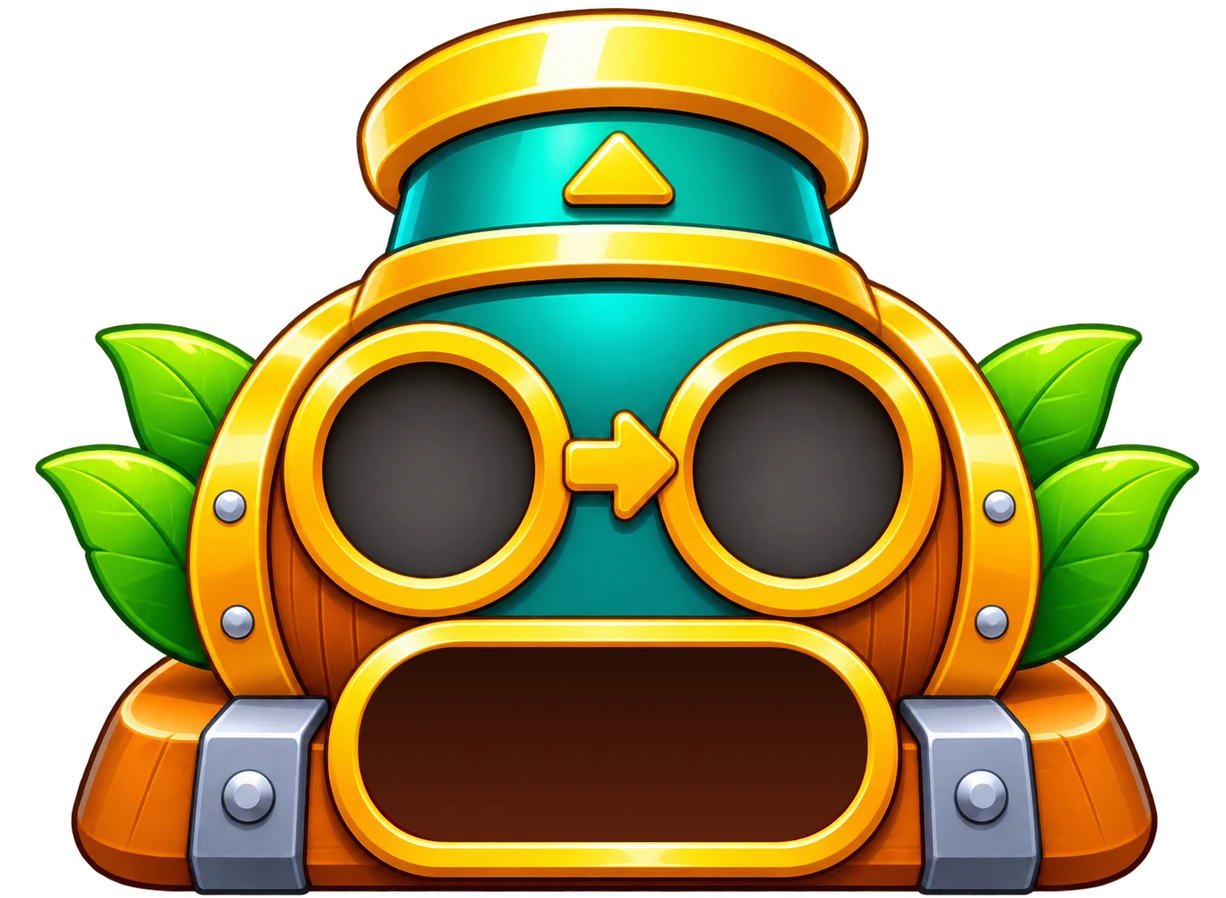
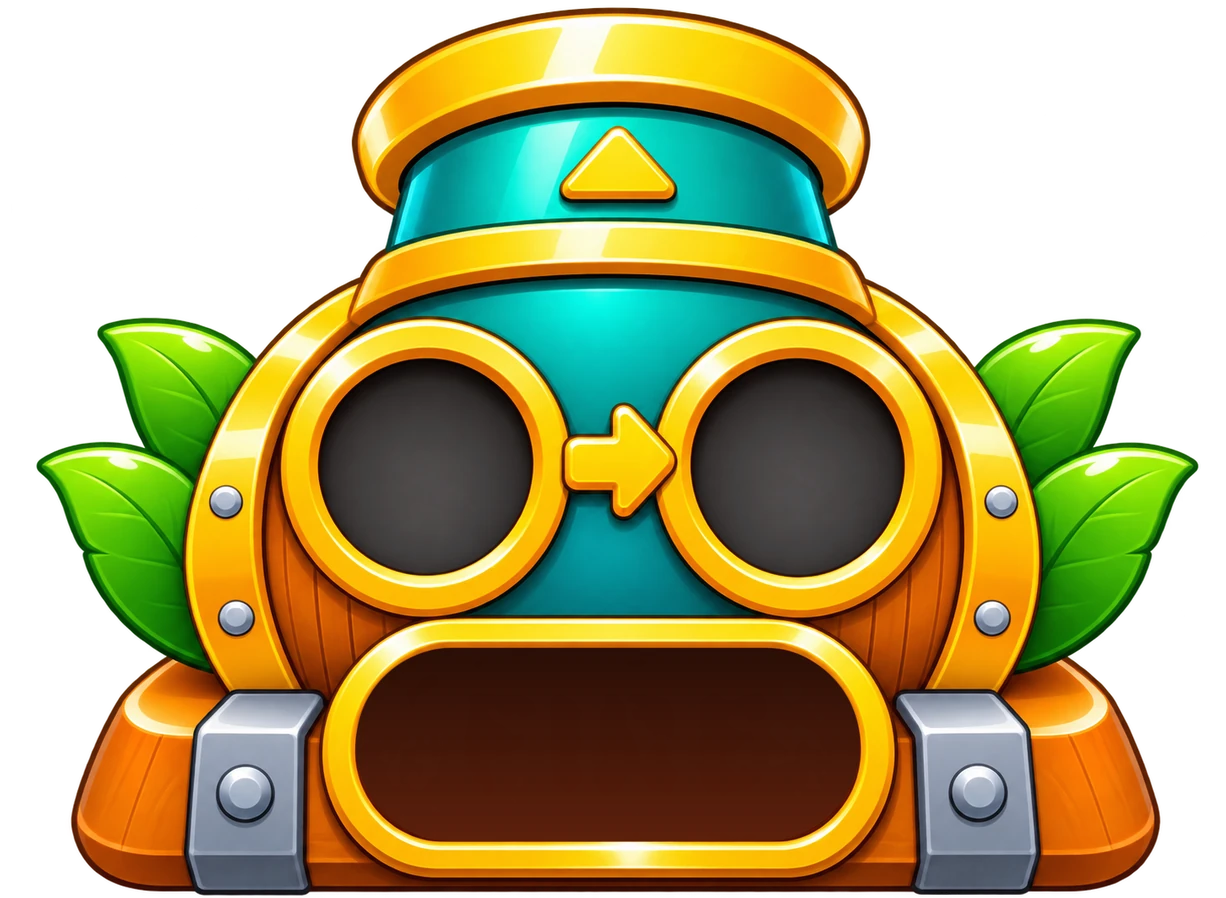
Replace the double cannon art with a yellow FIRE pill version
- Recut with tools/cut_double_cannon.py, keeping the pill's shine
- Re-measure socket positions; add a brown edge to the FIRE word

Changed region(s): [[0.031, 0.0, 0.9918, 0.9978], [0.6509, 0.0624, 0.6819, 0.0935]]

diff --git a/js/script.js b/js/script.js
@@ -816,14 +816,14 @@ const DW = 1672, DH = 941, CX = DW / 2, CY = DH / 2;
 const CANNON = { x: 836, bottom: 762, h: 360, src: { 1: [613, 449], 2: [613, 449] },
   // each socket's centre + radius: x and r as fractions of the sprite width, y of its height. r comes from where the
   // ring's gold starts (found on 240 rays): r × seat = the ring's widest inner edge + 1.8 canvas px (see seat)
-  holes: { 1: [[0.498, 0.5057, 0.1156]], 2: [[0.3497, 0.523, 0.0885], [0.6509, 0.5234, 0.0886]] },
+  holes: { 1: [[0.498, 0.5057, 0.1156]], 2: [[0.3473, 0.5194, 0.0884], [0.6507, 0.5202, 0.0892]] },
   // base footprint width (fraction of the sprite); the wooden base has no light strips
-  foot: { 1: { w: 0.7667, strips: [] }, 2: { w: 0.8059, strips: [] } },
+  foot: { 1: { w: 0.7667, strips: [] }, 2: { w: 0.8148, strips: [] } },
   // the dark recess inside each cannon's gold FIRE bezel, in sprite px: centre + size (Cannon.placeFire). The button
   // is placed by this, never by the sprite's middle. Each cannon has its own pill picture (1: fire.webp, 2: fire2.webp,
   // .p1 / .p2 in #fireBtn); `art` = the picture's size with its pill's size inside it, so the pill fills the recess exactly
   fire: { 1: { cx: 304.6, cy: 374.1, w: 244.9, h: 92.0, art: [495, 189, 490.0, 184.0] },
-    2: { cx: 306.5, cy: 372.3, w: 254.5, h: 97.4, art: [257.0, 99.5, 254.5, 97.4] } },
+    2: { cx: 304.0, cy: 372.3, w: 252.0, h: 96.6, art: [254.0, 99.0, 252.0, 96.6] } },
   // a loaded ball fills its socket edge to edge (user, 20 Nov: "fully absorb in circle, no negative space"): its
   // painted orb is this much of the hole's width. Each hole's r is set so that edge sits 1.8 canvas px (~0.7 game px)
   // under the gold ring where the ring is widest (the holes are not perfect circles), and the ring layer

diff --git a/src/30_stage.js b/src/30_stage.js
@@ -12,14 +12,14 @@ const DW = 1672, DH = 941, CX = DW / 2, CY = DH / 2;
 const CANNON = { x: 836, bottom: 762, h: 360, src: { 1: [613, 449], 2: [613, 449] },
   // each socket's centre + radius: x and r as fractions of the sprite width, y of its height. r comes from where the
   // ring's gold starts (found on 240 rays): r × seat = the ring's widest inner edge + 1.8 canvas px (see seat)
-  holes: { 1: [[0.498, 0.5057, 0.1156]], 2: [[0.3497, 0.523, 0.0885], [0.6509, 0.5234, 0.0886]] },
+  holes: { 1: [[0.498, 0.5057, 0.1156]], 2: [[0.3473, 0.5194, 0.0884], [0.6507, 0.5202, 0.0892]] },
   // base footprint width (fraction of the sprite); the wooden base has no light strips
-  foot: { 1: { w: 0.7667, strips: [] }, 2: { w: 0.8059, strips: [] } },
+  foot: { 1: { w: 0.7667, strips: [] }, 2: { w: 0.8148, strips: [] } },
   // the dark recess inside each cannon's gold FIRE bezel, in sprite px: centre + size (Cannon.placeFire). The button
   // is placed by this, never by the sprite's middle. Each cannon has its own pill picture (1: fire.webp, 2: fire2.webp,
   // .p1 / .p2 in #fireBtn); `art` = the picture's size with its pill's size inside it, so the pill fills the recess exactly
   fire: { 1: { cx: 304.6, cy: 374.1, w: 244.9, h: 92.0, art: [495, 189, 490.0, 184.0] },
-    2: { cx: 306.5, cy: 372.3, w: 254.5, h: 97.4, art: [257.0, 99.5, 254.5, 97.4] } },
+    2: { cx: 304.0, cy: 372.3, w: 252.0, h: 96.6, art: [254.0, 99.0, 252.0, 96.6] } },
   // a loaded ball fills its socket edge to edge (user, 20 Nov: "fully absorb in circle, no negative space"): its
   // painted orb is this much of the hole's width. Each hole's r is set so that edge sits 1.8 canvas px (~0.7 game px)
   // under the gold ring where the ring is widest (the holes are not perfect circles), and the ring layer

diff --git a/index.html b/index.html
@@ -232,6 +232,11 @@ img{-webkit-user-drag:none;user-select:none}
    from the button's height and shrinks it to fit a longer word */
 #fireBtn .ft{position:absolute;left:50%;top:50%;transform:translate(-50%,-44%);color:#fff;line-height:1;letter-spacing:.03em;text-transform:uppercase;white-space:nowrap;pointer-events:none;text-shadow:0 .05em 0 rgba(140,24,0,.55),0 0 .14em rgba(120,20,0,.35)}
 #fireBtn.off .ft{text-shadow:0 .05em 0 rgba(60,60,60,.45)}
+/* cannon 2's pill is yellow (the user's art, 23 Nov): its painted word was white with a thin brown edge and a soft
+   shadow, so the game's word gets the same, and its grey "off" picture is darker, so the white word still reads */
+#fireBtn.two .ft{text-shadow:0 0 .03em #94430a,0 0 .03em #94430a,0 .05em 0 #8a3c06,0 .07em .12em rgba(110,45,0,.45)}
+#fireBtn.two.off .ft{text-shadow:0 0 .03em rgba(50,50,50,.6),0 .05em 0 rgba(60,60,60,.45)}
+#fireBtn.two .gr{filter:grayscale(1) brightness(.55) contrast(.9)}
 #fireBtn .fgl{position:absolute;inset:-45% -22%;border-radius:50%;pointer-events:none;opacity:0;background:radial-gradient(closest-side,rgba(255,236,120,.95),rgba(255,160,40,.7) 45%,rgba(255,106,31,0))}
 #fireBtn.glow{animation:fglow .9s ease-out 1}
 #fireBtn.glow .fgl{animation:fglowL .9s ease-out 1}

diff --git a/src/00_head.html b/src/00_head.html
@@ -228,6 +228,11 @@ img{-webkit-user-drag:none;user-select:none}
    from the button's height and shrinks it to fit a longer word */
 #fireBtn .ft{position:absolute;left:50%;top:50%;transform:translate(-50%,-44%);color:#fff;line-height:1;letter-spacing:.03em;text-transform:uppercase;white-space:nowrap;pointer-events:none;text-shadow:0 .05em 0 rgba(140,24,0,.55),0 0 .14em rgba(120,20,0,.35)}
 #fireBtn.off .ft{text-shadow:0 .05em 0 rgba(60,60,60,.45)}
+/* cannon 2's pill is yellow (the user's art, 23 Nov): its painted word was white with a thin brown edge and a soft
+   shadow, so the game's word gets the same, and its grey "off" picture is darker, so the white word still reads */
+#fireBtn.two .ft{text-shadow:0 0 .03em #94430a,0 0 .03em #94430a,0 .05em 0 #8a3c06,0 .07em .12em rgba(110,45,0,.45)}
+#fireBtn.two.off .ft{text-shadow:0 0 .03em rgba(50,50,50,.6),0 .05em 0 rgba(60,60,60,.45)}
+#fireBtn.two .gr{filter:grayscale(1) brightness(.55) contrast(.9)}
 #fireBtn .fgl{position:absolute;inset:-45% -22%;border-radius:50%;pointer-events:none;opacity:0;background:radial-gradient(closest-side,rgba(255,236,120,.95),rgba(255,160,40,.7) 45%,rgba(255,106,31,0))}
 #fireBtn.glow{animation:fglow .9s ease-out 1}
 #fireBtn.glow .fgl{animation:fglowL .9s ease-out 1}

diff --git a/tools/cut_double_cannon.py b/tools/cut_double_cannon.py
@@ -113,12 +113,19 @@ def ring(cx, cy, r0):
 rings = [ring(*s_) for s_ in seeds]
 
 # =====================================================================================================
-# the FIRE pill: the red, filled, grown over its dark outline up to the gold bezel; its bounding box gives a stadium
+# the FIRE pill, whatever its colour (red on the first double cannon, yellow on the second, both 23 Nov): find the
+# white word in the lower middle, flood the pill from just left of it up to the pill's dark outline (darker than
+# the pill, it parts the pill from the gold bezel), grow over that outline; its bounding box gives a stadium
 # =====================================================================================================
-red = (r > 150) & (g < 110) & (b < 110) & (a > 200) & ~gold; red[:int(H * 0.6)] = False
-lab, n = nd.label(red); red = lab == (np.argmax(nd.sum(red, lab, range(1, n + 1))) + 1)
-grow = nd.binary_fill_holes(nd.binary_closing(red, iterations=3))
-for _ in range(6): grow |= nd.binary_dilation(grow) & ~gold & (a > 200) & (L < 100)
+wht = (r > 200) & (g > 200) & (b > 200) & (a > 200)
+wht[:int(H * 0.65)] = False; wht[int(H * 0.95):] = False; wht[:, :int(W * 0.25)] = False; wht[:, int(W * 0.75):] = False
+lab, n = nd.label(wht); objs = nd.find_objects(lab)
+lt = [k for k in range(n) if objs[k][0].stop - objs[k][0].start >= 60]  # the letters (≈110 px tall)
+sy, sx = (min(objs[k][0].start for k in lt) + max(objs[k][0].stop for k in lt)) // 2, min(objs[k][1].start for k in lt) - 30
+Lpill = float(np.median(L[sy - 4:sy + 5, sx - 4:sx + 5]))
+lab, n = nd.label(~((L < 0.6 * Lpill) | (a < 200)))  # (the outline is under 0.6 × the pill's brightness)
+grow = nd.binary_fill_holes(lab == lab[sy, sx])
+for _ in range(5): grow |= nd.binary_dilation(grow) & (L < 0.85 * Lpill) & (a > 200)  # over the outline, to the bezel
 grow = nd.binary_fill_holes(grow)
 ys, xs = np.nonzero(grow); pbox = (int(xs.min()), int(ys.min()), int(xs.max()) + 1, int(ys.max()) + 1)
 px0, py0, px1, py1 = pbox
@@ -133,7 +140,7 @@ M_ = 8
 P = A[py0 - M_:py1 + M_, px0 - M_:px1 + M_].astype(np.float64); Lp = L[py0 - M_:py1 + M_, px0 - M_:px1 + M_]
 NR = P.shape[0]; rr = np.arange(NR)[:, None]
 sp = stadium(P.shape[:2], (M_, M_, M_ + px1 - px0, M_ + py1 - py0)) > 0.5
-white = (P[..., 1] > 140) & (P[..., 2] > 110) & nd.binary_erosion(sp, iterations=6)
+white = (P[..., :3] > 215).all(-1) & nd.binary_erosion(sp, iterations=6)  # pure white (the yellow pill's light top band is cream)
 lab, n = nd.label(white); objs = nd.find_objects(lab); area = nd.sum(white, lab, range(1, n + 1))
 tall = [k for k in range(n) if objs[k][0].stop - objs[k][0].start >= 60]  # the letters (gloss blobs are ≤ 45 px tall)
 y0w, y1w = min(objs[k][0].start for k in tall), max(objs[k][0].stop for k in tall)
@@ -148,11 +155,12 @@ near = dist(word) <= 8  # small white bits next to a letter are the letter's, no
 for k in range(n):
     if (near & (lab == k + 1)).any(): word |= lab == k + 1
 gloss = dist(white & ~word) <= 4
-drop = word.copy()
-for dy in range(1, 31): drop[dy:] |= word[:-dy]
-halo = (dist(word) <= 17) | (dist(drop) <= 5)
+drop = word.copy()  # (the shadow falls down and a little to the right)
+for dy in range(1, 33): drop[dy:, dy // 4:] |= word[:-dy, :word.shape[1] - dy // 4]
+halo = (dist(word) <= 21) | (dist(drop) <= 7)
 # …but never into the rim light: in each column, stop just above the first bright row under the letters
-rim = (Lp > 80) & (rr >= y1w + 14) & sp  # (+14: past the letters' own bright bottom edge and the shadow's core)
+below = (rr >= y1w + 14) & sp  # (+14: past the letters' own bright bottom edge and the shadow's core)
+rim = (Lp > np.median(Lp[below & (rr < y1w + 24)]) + 15) & below  # (the light line near the pill's bottom)
 halo &= rr < (np.where(rim.any(0), rim.argmax(0), NR) - 1)[None, :]
 fill = nd.binary_fill_holes(halo & nd.binary_erosion(sp, iterations=6)) & ~gloss  # (+ any pocket it encloses)
 
@@ -172,7 +180,10 @@ def laplace_fill(img, mask, keep):
     return out
 
 
-E = P.copy(); E[..., :3] = laplace_fill(P[..., :3], fill, gloss)
+E = P.copy(); E[..., :3] = laplace_fill(P[..., :3], fill, gloss | (rr >= (np.where(rim.any(0), rim.argmax(0), NR) - 1)[None, :]))
+# a light blur deep inside the fill (none at its edge), so no faint point of a leftover shadow pixel survives
+wdeep = np.clip(nd.distance_transform_edt(fill) / 8, 0, 1)[..., None]
+E[..., :3] = E[..., :3] * (1 - wdeep) + nd.gaussian_filter(E[..., :3], (2.5, 2.5, 0)) * wdeep
 if args.debug:
     dbg = P[..., :3].copy(); dbg[fill] = dbg[fill] * 0.4 + np.array([0, 255, 0]) * 0.6; dbg[gloss & sp] = dbg[gloss & sp] * 0.4 + np.array([0, 0, 255]) * 0.6
     Image.fromarray(np.clip(dbg, 0, 255).astype(np.uint8)).save(f'{args.out}/debug_fill.png')

diff --git a/README.md b/README.md
@@ -142,6 +142,6 @@ After changing anything in `src/`, run `./build.sh`.
 | Tray, balls | `python tools/cut_ui_elements.py art/sprite_sheets/ui_elements.png EDSR_x2.pb OUT` (a Python with OpenCV's `dnn_superres`, SciPy and Pillow), then `cwebp -m 6 -q 90 -alpha_q 100` each PNG into `assets/img/`. It prints the numbers for `RACK` at the top of `src/30_stage.js` |
 | HD pictures (after any recut above, or of the start screen; not the cannons or FIRE) | `PY tools/hd_upscale.py OUT rack:3236 rack_front:rack ball_0:336 … ball_7:336 pause:264 play:264 sound:266 bg_plantL:286 bg_plantR:233 t_cannon:1314 t_cage:955 t_cage_front:t_cage t_x:487 t_logo:2452 playbtn:440`, then `cwebp -m 6 -q 90 -alpha_q 100` each PNG into `assets/img/`, then `tools/cut_glints.py` (the start screen's glints, from the HD cannon and cage). It upscales with Real-ESRGAN's illustration model (RealESRGAN_x4plus_anime_6B, on the Mac's GPU through PyTorch) to about 2.5 picture px per art px, so the sprites stay sharp on retina screens with the camera zoomed in. `name:width` upscales; `layer:name` cuts a front layer from its picture's HD version, so they line up exactly. Proportions never change, so nothing moves in the game. PY = a Python with torch, NumPy and Pillow (`~/.cache/bj-voices/venv/bin/python` on this Mac); weights in `~/.cache/esrgan-weights/`. Run it on the cut pictures once only (not on its own output). The background layers and the caption board are left as they are |
 
-The cannon comes in 1- and 2-socket versions, both your own art (`art/sprite_sheets/single_cannon.png` and `double_cannon.png`, 23 Nov), so rounds can use up to 2 sockets. On the 2-socket cannon your gold arrow between the sockets shows the order, the game's 1 and 2 markers sit on the gold side bands just above their rivets, and FIRE uses that cannon's own red pill (`fire2.webp`). If you supply 3- and 4-socket cannon art, the deck's bonus banks can be added back.
+The cannon comes in 1- and 2-socket versions, both your own art (`art/sprite_sheets/single_cannon.png` and `double_cannon.png`, 23 Nov), so rounds can use up to 2 sockets. On the 2-socket cannon your gold arrow between the sockets shows the order, the game's 1 and 2 markers sit on the gold side bands just above their rivets, and FIRE uses that cannon's own yellow pill (`fire2.webp`), its word white with a thin brown edge as you drew it (grey when the button is off). If you supply 3- and 4-socket cannon art, the deck's bonus banks can be added back.
 
 See `CREDITS.md` for the audio licences.

diff --git a/docs/GAME_PROMPT.md b/docs/GAME_PROMPT.md
@@ -48,7 +48,7 @@ A purple **x** is locked in a golden cage on a cloud, inside an equation such as
 | `assets/img/cloud.png` | The equation cloud |
 | `assets/img/cage_x.png`, `cage.png`, `xchar.png` | x in its cage, the empty cage, and the free x character |
 | `assets/img/cannon1.webp`, `cannon2.webp` (+ `_front`) | 1-socket and 2-socket cannons from the user's own art (23 Nov): teal and gold, with leaves, on a wooden base. Cut from `art/sprite_sheets/single_cannon.png` by `tools/cut_single_cannon.py` and from `art/sprite_sheets/double_cannon.png` by `tools/cut_double_cannon.py`, onto one canvas, so the morph between them swaps only the top. `_front` = only the gold socket ring(s), drawn above a loaded ball. Only these two exist, so rounds use at most 2 sockets. |
-| `assets/img/fire.webp`, `fire2.webp` | Each cannon's own red FIRE pill, blank (the painted word erased): the game writes the word (`btnFire`) on it. `fire.webp` = the single cannon's (`tools/cut_single_cannon.py`); `fire2.webp` = the double's own pill (`tools/cut_double_cannon.py`) |
+| `assets/img/fire.webp`, `fire2.webp` | Each cannon's own FIRE pill (red on the single cannon, yellow on the double), blank (the painted word erased): the game writes the word (`btnFire`) on it. `fire.webp` = the single cannon's (`tools/cut_single_cannon.py`); `fire2.webp` = the double's own pill (`tools/cut_double_cannon.py`) |
 | `assets/img/ball_0..7.png` | Ball bodies: magenta, pink, green, cyan, coral, blue, yellow, purple. The game draws the labels. |
 | `assets/img/rack.webp`, `rack_front.webp` | The wooden ball tray (metal corners, rope ends, cyan light), its plain middle stretched to hold 8 balls; the front lip is drawn over the balls |
 | `assets/img/pause.png`, `play.png`, `sound.png` | HUD buttons (orange rounded squares) |
